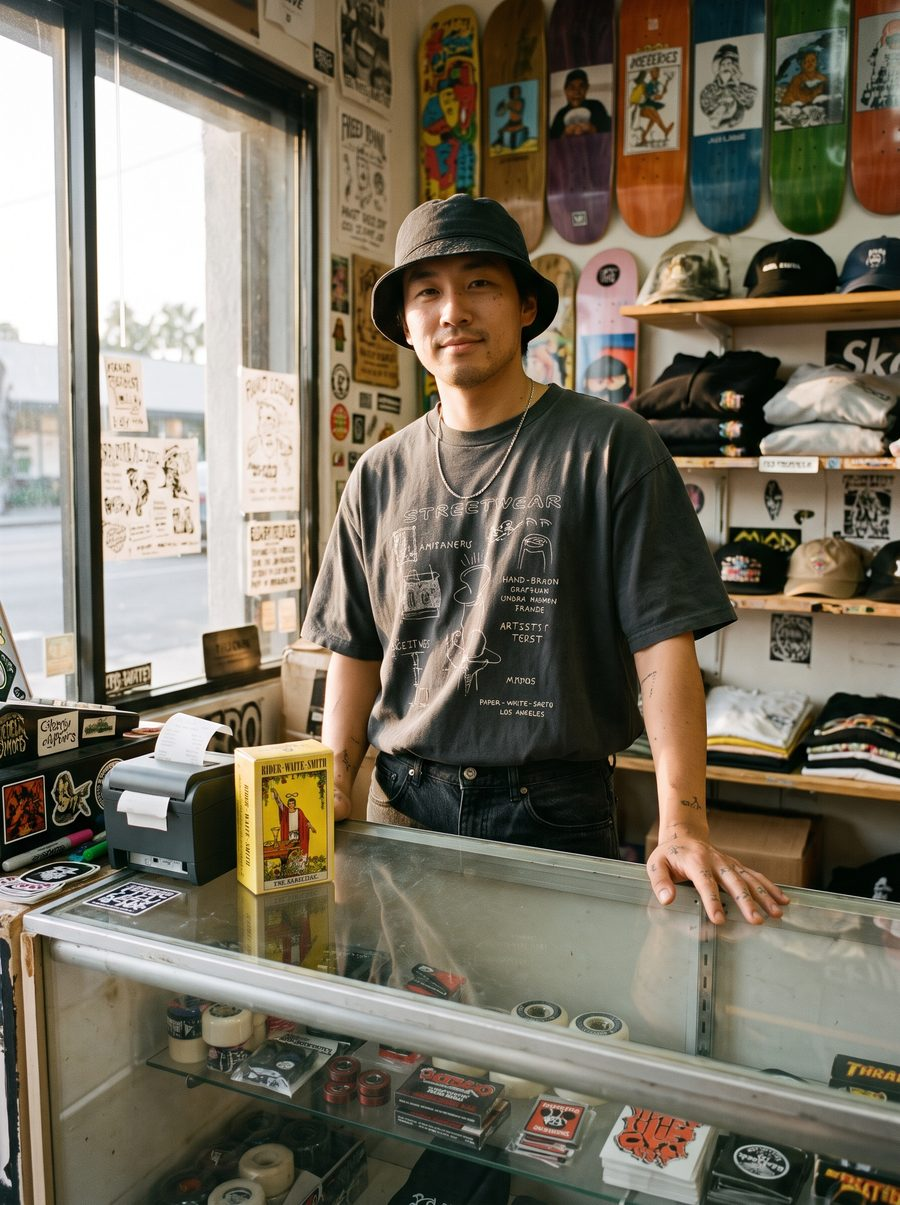
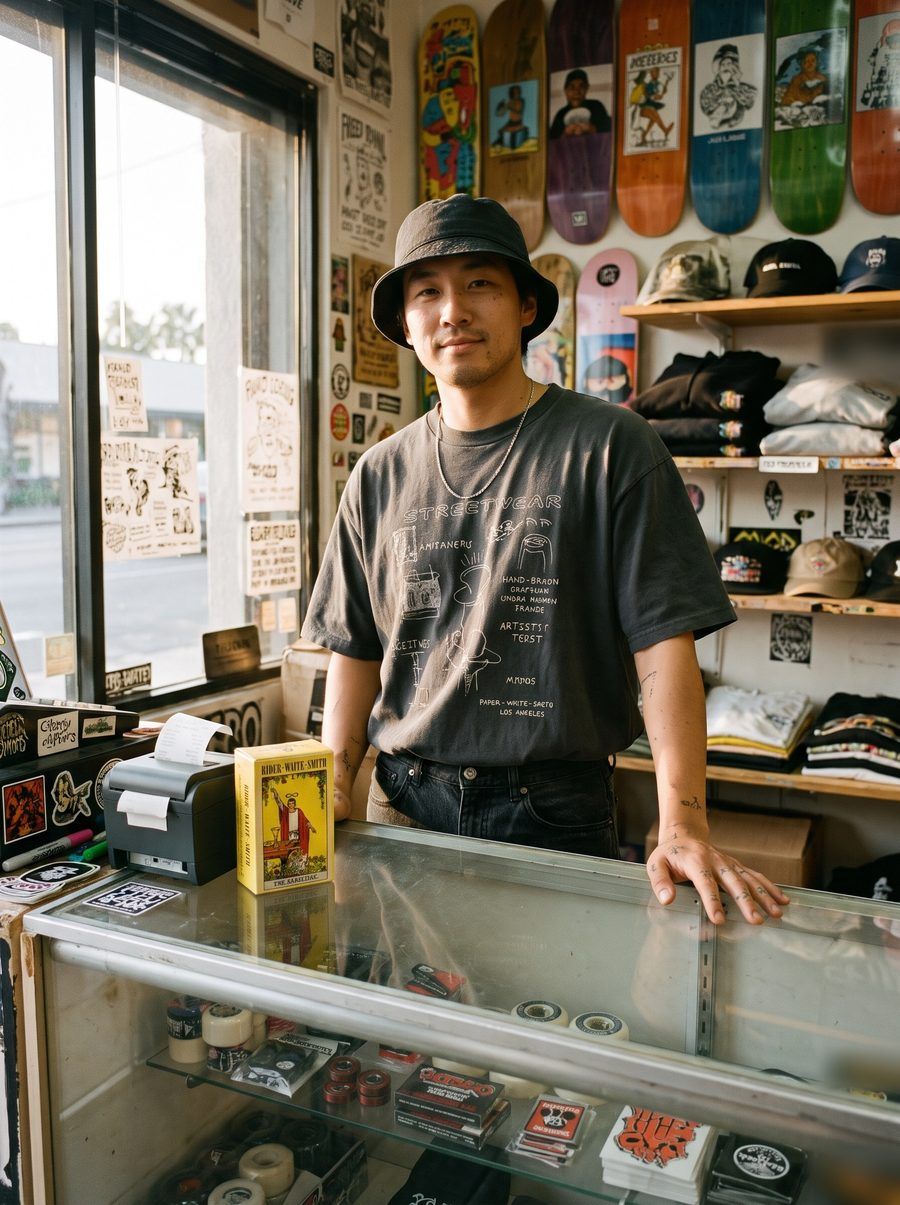
Remove brand marks from Kenji Mori images
Claude-Session: https://claude.ai/code/session_01MgAzd5TgT4sdMC9Sw9QbB4

Changed region(s): [[0.9022, 0.2456, 1.0, 0.3378], [0.9022, 0.9519, 1.0, 1.0], [0.9022, 0.8598, 1.0, 0.9212]]

diff --git a/journal/index.html b/journal/index.html
@@ -37,7 +37,7 @@ a{color:#8A5A0E}a:hover{color:#1F1915}
 <button aria-expanded="false" aria-label="Open menu" class="nl-menu" style="width:44px;height:44px;align-items:center;justify-content:center;border:1px solid #DDD3C4;border-radius:50%;background:transparent" type="button"><svg aria-hidden="true" fill="none" height="18" stroke="#1F1915" stroke-width="1.5" viewbox="0 0 24 24" width="18"><path d="M4 7h16M4 12h16M4 17h16"></path></svg></button></div>
 </div><nav aria-label="Menu" class="nl-drawer"><a href="/how-it-reads/">How it reads</a><a href="/readers/">Readers</a><a href="/decks/">Decks</a><a href="/cards/">Learn</a><a href="/pricing/">Pricing</a><a href="/shop/">Shop</a><a href="/waitlist/">Join the waitlist</a></nav></header><main><section style="max-width: 1280px; margin: 0px auto; padding: 72px 48px 40px; display: flex; flex-wrap: wrap; justify-content: space-between; align-items: flex-end; gap: 24px;">
 <div style="display: flex; flex-direction: column; gap: 14px;"><h1 style='margin: 0px; font-family: "Cormorant Garamond", serif; font-weight: 500; font-size: clamp(54px, 7vw, 104px); line-height: 0.9;'>The Journal</h1><p style="margin: 0px; font-family: Newsreader, serif; font-size: 20px; color: rgb(61, 52, 45);">Tarot history, method, and what we notice at the table.</p></div>
-<div aria-label="Topics" data-choice='{"on": {"border": "1.5px solid rgb(31, 25, 21)", "background": "rgb(252, 250, 246)"}, "off": {"border": "1px solid rgb(221, 211, 196)", "background": "transparent"}}' data-filter="1" role="group" style="display: flex; flex-wrap: wrap; gap: 8px;"><button aria-pressed="true" style="min-height: 40px; padding: 0px 16px; border-radius: 999px; border: 1.5px solid rgb(31, 25, 21); background: rgb(252, 250, 246); font-family: inherit; font-size: 14px;" type="button">All</button><button aria-pressed="false" style="min-height: 40px; padding: 0px 16px; border-radius: 999px; border: 1px solid rgb(221, 211, 196); background: transparent; font-family: inherit; font-size: 14px;" type="button">History</button><button aria-pressed="false" style="min-height: 40px; padding: 0px 16px; border-radius: 999px; border: 1px solid rgb(221, 211, 196); background: transparent; font-family: inherit; font-size: 14px;" type="button">Method</button><button aria-pressed="false" style="min-height: 40px; padding: 0px 16px; border-radius: 999px; border: 1px solid rgb(221, 211, 196); background: transparent; font-family: inherit; font-size: 14px;" type="button">Trust</button><button aria-pressed="false" style="min-height: 40px; padding: 0px 16px; border-radius: 999px; border: 1px solid rgb(221, 211, 196); background: transparent; font-family: inherit; font-size: 14px;" type="button">Practice</button></div></section><section style="max-width: 1280px; margin: 0px auto; padding: 8px 48px 56px;">
+<div aria-label="Topics" data-choice='{"on": {"background": "rgb(252, 250, 246)", "border": "1.5px solid rgb(31, 25, 21)"}, "off": {"background": "transparent", "border": "1px solid rgb(221, 211, 196)"}}' data-filter="1" role="group" style="display: flex; flex-wrap: wrap; gap: 8px;"><button aria-pressed="true" style="min-height: 40px; padding: 0px 16px; border-radius: 999px; border: 1.5px solid rgb(31, 25, 21); background: rgb(252, 250, 246); font-family: inherit; font-size: 14px;" type="button">All</button><button aria-pressed="false" style="min-height: 40px; padding: 0px 16px; border-radius: 999px; border: 1px solid rgb(221, 211, 196); background: transparent; font-family: inherit; font-size: 14px;" type="button">History</button><button aria-pressed="false" style="min-height: 40px; padding: 0px 16px; border-radius: 999px; border: 1px solid rgb(221, 211, 196); background: transparent; font-family: inherit; font-size: 14px;" type="button">Method</button><button aria-pressed="false" style="min-height: 40px; padding: 0px 16px; border-radius: 999px; border: 1px solid rgb(221, 211, 196); background: transparent; font-family: inherit; font-size: 14px;" type="button">Trust</button><button aria-pressed="false" style="min-height: 40px; padding: 0px 16px; border-radius: 999px; border: 1px solid rgb(221, 211, 196); background: transparent; font-family: inherit; font-size: 14px;" type="button">Practice</button></div></section><section style="max-width: 1280px; margin: 0px auto; padding: 8px 48px 56px;">
 <div data-filter-item="History" style="display: flex; flex-wrap: wrap; gap: 0px; border-radius: 10px; overflow: hidden; background: rgb(26, 20, 17); color: rgb(239, 230, 216); text-decoration: none;">
 <div class="fb" style="flex: 1 1 460px; min-height: 380px; display: flex; align-items: center; justify-content: center; gap: 18px; background: radial-gradient(at 50% 40%, rgb(58, 47, 40), rgb(26, 20, 17));"><img alt="The Fool" decoding="async" fetchpriority="high" loading="eager" src="/img/d96b16f2d5c2a36371890aaaf6c9a14d.jpg" style="height: 250px; border-radius: 3px; transform: rotate(-4deg);"/><img alt="The High Priestess" decoding="async" fetchpriority="high" loading="eager" src="/img/6e0a441473fe652bd49c09d9c4b72616.jpg" style="height: 250px; border-radius: 3px; transform: rotate(3deg);"/></div>
 <div class="fb" style="flex: 1 1 460px; padding: 48px; display: flex; flex-direction: column; justify-content: center; gap: 16px;"><span style="font-size: 12px; font-weight: 600; letter-spacing: 0.16em; text-transform: uppercase; color: rgb(217, 162, 58);">History</span><span style='font-family: "Cormorant Garamond", serif; font-size: clamp(34px, 3.6vw, 52px); line-height: 1.02;'>Pamela Colman Smith drew 78 cards in 1909. We still read her hand.</span><span style="font-family: Newsreader, serif; font-size: 18px; line-height: 1.6; color: rgb(216, 205, 188);">The artist behind the world's most-read deck, and why her pips changed tarot.</span><span style="font-size: 13px; color: rgb(179, 166, 149);">Coming soon</span></div>

diff --git a/free-tarot-reading/index.html b/free-tarot-reading/index.html
@@ -54,7 +54,7 @@ a{color:#8A5A0E}a:hover{color:#1F1915}
 </fieldset>
 <fieldset style="border: 0px; margin: 0px; padding: 0px; display: flex; flex-direction: column; gap: 12px;">
 <legend style="font-size: 12px; font-weight: 600; letter-spacing: 0.16em; text-transform: uppercase; color: rgb(90, 79, 69); margin-bottom: 12px;">2 · Deck</legend>
-<div data-choice='{"on": {"border": "1.5px solid rgb(168, 118, 28)", "background": "rgb(247, 238, 220)"}, "off": {"border": "1px solid rgb(221, 211, 196)", "background": "rgb(255, 255, 255)"}}' style="display: flex; flex-wrap: wrap; gap: 10px;">
+<div data-choice='{"on": {"background": "rgb(247, 238, 220)", "border": "1.5px solid rgb(168, 118, 28)"}, "off": {"background": "rgb(255, 255, 255)", "border": "1px solid rgb(221, 211, 196)"}}' style="display: flex; flex-wrap: wrap; gap: 10px;">
 <button aria-pressed="true" style="min-height: 44px; padding: 0px 18px; border-radius: 999px; border: 1.5px solid rgb(168, 118, 28); background: rgb(247, 238, 220); font-family: inherit; font-size: 14px; color: rgb(31, 25, 21); cursor: pointer;" type="button">Rider–Waite–Smith</button>
 <button aria-pressed="false" style="min-height: 44px; padding: 0px 18px; border-radius: 999px; border: 1px solid rgb(221, 211, 196); background: rgb(255, 255, 255); font-family: inherit; font-size: 14px; color: rgb(31, 25, 21); cursor: pointer;" type="button">Tarot de Marseille</button>
 <button aria-pressed="false" style="min-height: 44px; padding: 0px 18px; border-radius: 999px; border: 1px solid rgb(221, 211, 196); background: rgb(255, 255, 255); font-family: inherit; font-size: 14px; color: rgb(31, 25, 21); cursor: pointer;" type="button">+ My own deck</button>
